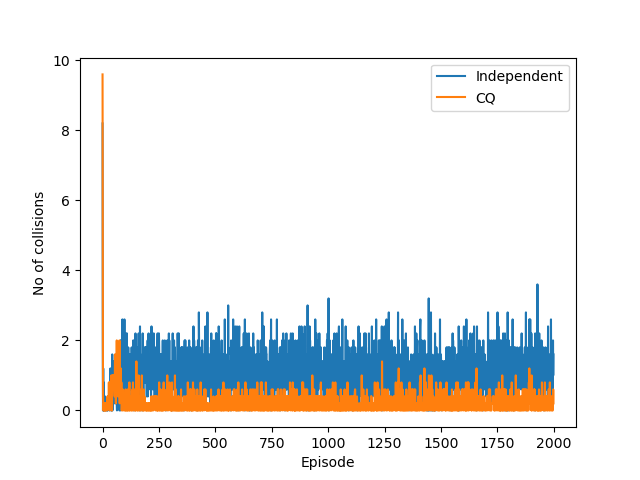
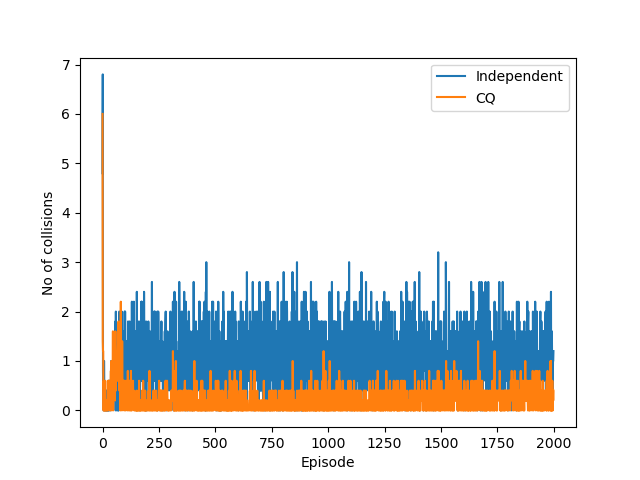
Fix signifcance level

diff --git a/cq/cqlearners.py b/cq/cqlearners.py
@@ -147,6 +147,6 @@ class CQLearner:
         t_test = stats.ttest_1samp(latest_rewards[action], popmean=reward, alternative="less")
         # is_reward_greater = t_test.statistic < 0
 
-        is_confident = t_test.pvalue < 0.5
+        is_confident = t_test.pvalue < 0.1
         
         return not is_confident
